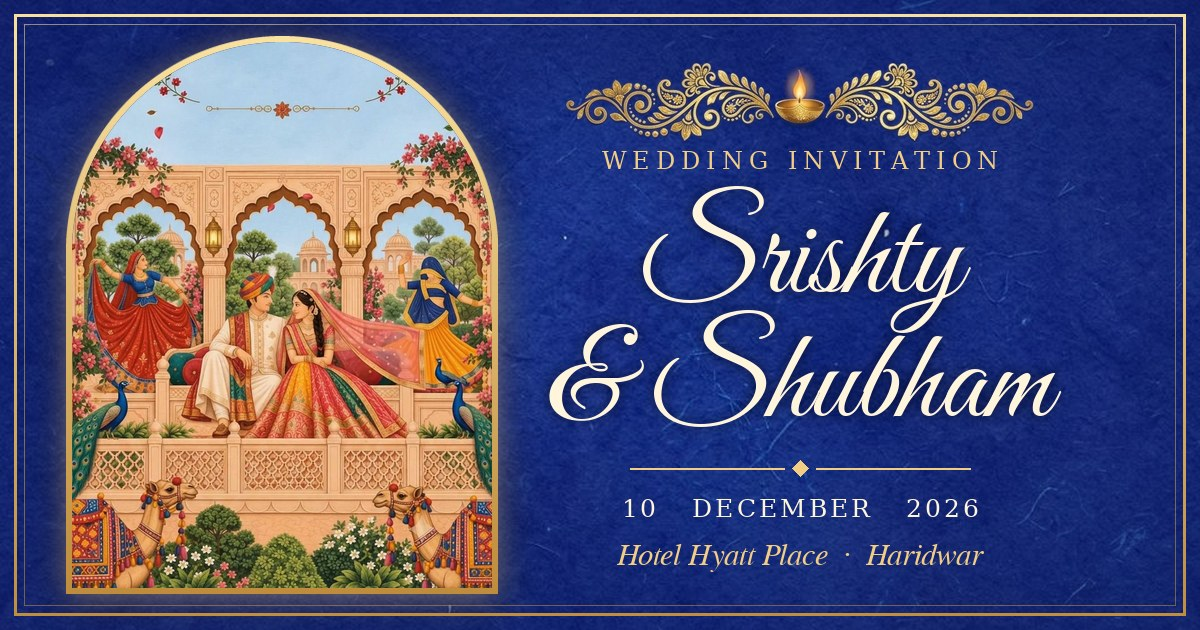
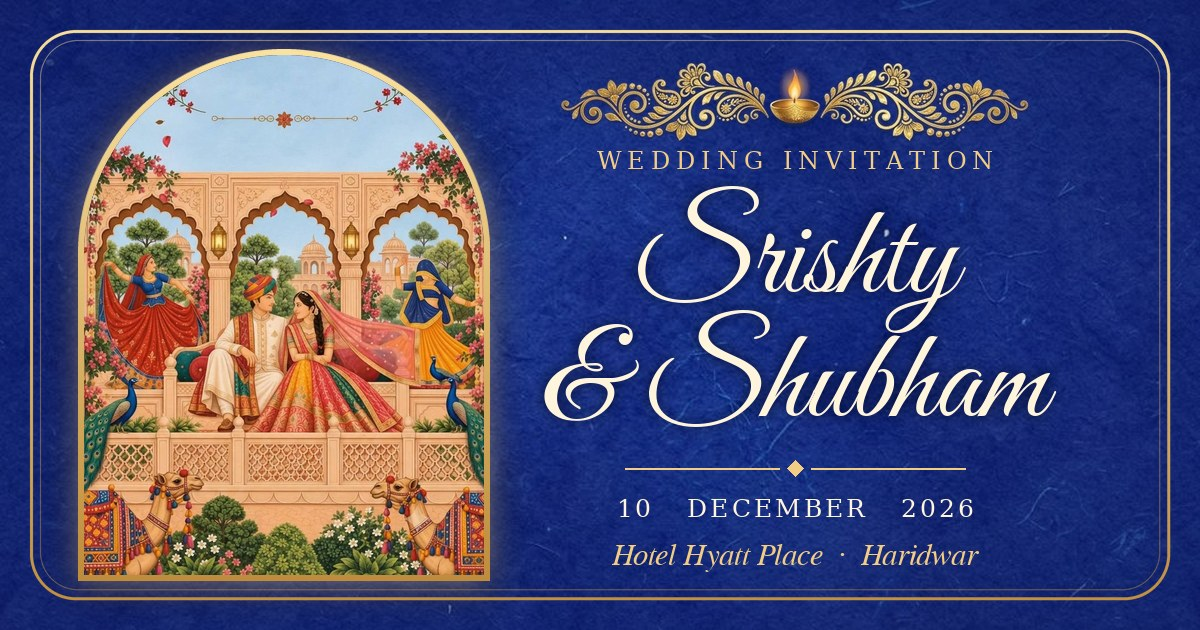
Covers: rounded gold frame so WhatsApp's rounded bubble does not clip the border
Claude-Session: https://claude.ai/code/session_01PUnrPC2LHdkjsuAvqnG7it

diff --git a/shubh-vivah/index.html b/shubh-vivah/index.html
@@ -7,7 +7,7 @@
 <meta name="theme-color" content="#14206e">
 <title>Srishty &amp; Shubham · Wedding Invitation</title>
 <meta name="description" content="Wedding & Dinner  |  Thursday, 10 December 2026, 8:00 PM  |  Hotel Hyatt Place, Haridwar">
-<meta property="og:type" content="website"><meta property="og:site_name" content="Srishty &amp; Shubham"><meta property="og:title" content="Srishty &amp; Shubham · Wedding Invitation"><meta property="og:description" content="Wedding &amp; Dinner  |  Thursday, 10 December 2026, 8:00 PM  |  Hotel Hyatt Place, Haridwar"><meta property="og:url" content="https://shubhamsrishty-hub.github.io/shubh-vivah/"><meta property="og:image" content="https://shubhamsrishty-hub.github.io/shubh-vivah/cover.jpg?v=2"><meta property="og:image:width" content="1200"><meta property="og:image:height" content="630"><meta name="twitter:card" content="summary_large_image"><meta name="twitter:image" content="https://shubhamsrishty-hub.github.io/shubh-vivah/cover.jpg?v=2">
+<meta property="og:type" content="website"><meta property="og:site_name" content="Srishty &amp; Shubham"><meta property="og:title" content="Srishty &amp; Shubham · Wedding Invitation"><meta property="og:description" content="Wedding &amp; Dinner  |  Thursday, 10 December 2026, 8:00 PM  |  Hotel Hyatt Place, Haridwar"><meta property="og:url" content="https://shubhamsrishty-hub.github.io/shubh-vivah/"><meta property="og:image" content="https://shubhamsrishty-hub.github.io/shubh-vivah/cover.jpg?v=3"><meta property="og:image:width" content="1200"><meta property="og:image:height" content="630"><meta name="twitter:card" content="summary_large_image"><meta name="twitter:image" content="https://shubhamsrishty-hub.github.io/shubh-vivah/cover.jpg?v=3">
 <link rel="preconnect" href="https://fonts.googleapis.com"><link rel="preconnect" href="https://fonts.gstatic.com" crossorigin>
 <link href="https://fonts.googleapis.com/css2?family=Cormorant+Garamond:ital,wght@0,400;0,500;0,600;0,700;1,400;1,500;1,600&family=Cinzel:wght@500;600;700&family=Cormorant+SC:wght@500;600;700&family=Great+Vibes&family=Tiro+Devanagari+Hindi&display=swap" rel="stylesheet">
 <link rel="preload" href="hero-light.mp4" as="video" type="video/mp4">

diff --git a/srishty-shubham/index.html b/srishty-shubham/index.html
@@ -7,7 +7,7 @@
 <meta name="theme-color" content="#14206e">
 <title>Srishty &amp; Shubham · Bhaat, Sangeet &amp; Wedding</title>
 <meta name="description" content="Bhaat & Sangeet · Wedding  |  5 & 10 December 2026, Haridwar">
-<meta property="og:type" content="website"><meta property="og:site_name" content="Srishty &amp; Shubham"><meta property="og:title" content="Srishty &amp; Shubham · Bhaat, Sangeet &amp; Wedding"><meta property="og:description" content="Bhaat &amp; Sangeet · Wedding  |  5 &amp; 10 December 2026, Haridwar"><meta property="og:url" content="https://shubhamsrishty-hub.github.io/srishty-shubham/"><meta property="og:image" content="https://shubhamsrishty-hub.github.io/srishty-shubham/cover.jpg?v=2"><meta property="og:image:width" content="1200"><meta property="og:image:height" content="630"><meta name="twitter:card" content="summary_large_image"><meta name="twitter:image" content="https://shubhamsrishty-hub.github.io/srishty-shubham/cover.jpg?v=2">
+<meta property="og:type" content="website"><meta property="og:site_name" content="Srishty &amp; Shubham"><meta property="og:title" content="Srishty &amp; Shubham · Bhaat, Sangeet &amp; Wedding"><meta property="og:description" content="Bhaat &amp; Sangeet · Wedding  |  5 &amp; 10 December 2026, Haridwar"><meta property="og:url" content="https://shubhamsrishty-hub.github.io/srishty-shubham/"><meta property="og:image" content="https://shubhamsrishty-hub.github.io/srishty-shubham/cover.jpg?v=3"><meta property="og:image:width" content="1200"><meta property="og:image:height" content="630"><meta name="twitter:card" content="summary_large_image"><meta name="twitter:image" content="https://shubhamsrishty-hub.github.io/srishty-shubham/cover.jpg?v=3">
 <link rel="preconnect" href="https://fonts.googleapis.com"><link rel="preconnect" href="https://fonts.gstatic.com" crossorigin>
 <link href="https://fonts.googleapis.com/css2?family=Cormorant+Garamond:ital,wght@0,400;0,500;0,600;0,700;1,400;1,500;1,600&family=Cinzel:wght@500;600;700&family=Cormorant+SC:wght@500;600;700&family=Great+Vibes&family=Tiro+Devanagari+Hindi&display=swap" rel="stylesheet">
 <link rel="preload" href="hero-light.mp4" as="video" type="video/mp4">

diff --git a/sangeet/index.html b/sangeet/index.html
@@ -7,7 +7,7 @@
 <meta name="theme-color" content="#14206e">
 <title>Srishty &amp; Shubham · Bhaat &amp; Sangeet</title>
 <meta name="description" content="Dinner & Sangeet  |  Saturday, 5 December 2026, 8:00 PM  |  Drive Inn 24, Shahnai Hall">
-<meta property="og:type" content="website"><meta property="og:site_name" content="Srishty &amp; Shubham"><meta property="og:title" content="Srishty &amp; Shubham · Bhaat &amp; Sangeet"><meta property="og:description" content="Dinner &amp; Sangeet  |  Saturday, 5 December 2026, 8:00 PM  |  Drive Inn 24, Shahnai Hall"><meta property="og:url" content="https://shubhamsrishty-hub.github.io/sangeet/"><meta property="og:image" content="https://shubhamsrishty-hub.github.io/sangeet/cover.jpg?v=2"><meta property="og:image:width" content="1200"><meta property="og:image:height" content="630"><meta name="twitter:card" content="summary_large_image"><meta name="twitter:image" content="https://shubhamsrishty-hub.github.io/sangeet/cover.jpg?v=2">
+<meta property="og:type" content="website"><meta property="og:site_name" content="Srishty &amp; Shubham"><meta property="og:title" content="Srishty &amp; Shubham · Bhaat &amp; Sangeet"><meta property="og:description" content="Dinner &amp; Sangeet  |  Saturday, 5 December 2026, 8:00 PM  |  Drive Inn 24, Shahnai Hall"><meta property="og:url" content="https://shubhamsrishty-hub.github.io/sangeet/"><meta property="og:image" content="https://shubhamsrishty-hub.github.io/sangeet/cover.jpg?v=3"><meta property="og:image:width" content="1200"><meta property="og:image:height" content="630"><meta name="twitter:card" content="summary_large_image"><meta name="twitter:image" content="https://shubhamsrishty-hub.github.io/sangeet/cover.jpg?v=3">
 <link rel="preconnect" href="https://fonts.googleapis.com"><link rel="preconnect" href="https://fonts.gstatic.com" crossorigin>
 <link href="https://fonts.googleapis.com/css2?family=Cormorant+Garamond:ital,wght@0,400;0,500;0,600;0,700;1,400;1,500;1,600&family=Cinzel:wght@500;600;700&family=Cormorant+SC:wght@500;600;700&family=Great+Vibes&family=Tiro+Devanagari+Hindi&display=swap" rel="stylesheet">
 <link rel="preload" href="hero-light.mp4" as="video" type="video/mp4">

diff --git a/wedding/index.html b/wedding/index.html
@@ -6,7 +6,7 @@
 <meta name="theme-color" content="#14206e">
 <title>Srishty &amp; Shubham · Wedding Invitation</title>
 <meta name="description" content="Bhaat & Sangeet · Haldi · Wedding  |  5, 9 & 10 December 2026, Haridwar">
-<meta property="og:type" content="website"><meta property="og:site_name" content="Srishty &amp; Shubham"><meta property="og:title" content="Srishty &amp; Shubham · Wedding Invitation"><meta property="og:description" content="Bhaat &amp; Sangeet · Haldi · Wedding  |  5, 9 &amp; 10 December 2026, Haridwar"><meta property="og:url" content="https://shubhamsrishty-hub.github.io/wedding/"><meta property="og:image" content="https://shubhamsrishty-hub.github.io/wedding/cover.jpg?v=2"><meta property="og:image:width" content="1200"><meta property="og:image:height" content="630"><meta name="twitter:card" content="summary_large_image"><meta name="twitter:image" content="https://shubhamsrishty-hub.github.io/wedding/cover.jpg?v=2">
+<meta property="og:type" content="website"><meta property="og:site_name" content="Srishty &amp; Shubham"><meta property="og:title" content="Srishty &amp; Shubham · Wedding Invitation"><meta property="og:description" content="Bhaat &amp; Sangeet · Haldi · Wedding  |  5, 9 &amp; 10 December 2026, Haridwar"><meta property="og:url" content="https://shubhamsrishty-hub.github.io/wedding/"><meta property="og:image" content="https://shubhamsrishty-hub.github.io/wedding/cover.jpg?v=3"><meta property="og:image:width" content="1200"><meta property="og:image:height" content="630"><meta name="twitter:card" content="summary_large_image"><meta name="twitter:image" content="https://shubhamsrishty-hub.github.io/wedding/cover.jpg?v=3">
 <link rel="preconnect" href="https://fonts.googleapis.com"><link rel="preconnect" href="https://fonts.gstatic.com" crossorigin>
 <link href="https://fonts.googleapis.com/css2?family=Cormorant+Garamond:ital,wght@0,400;0,500;0,600;0,700;1,400;1,500;1,600&family=Cinzel:wght@500;600;700&family=Cormorant+SC:wght@500;600;700&family=Great+Vibes&family=Tiro+Devanagari+Hindi&display=swap" rel="stylesheet">
 <link rel="preload" href="hero-light.mp4" as="video" type="video/mp4">
